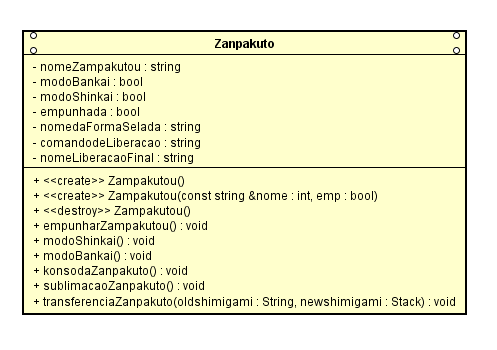
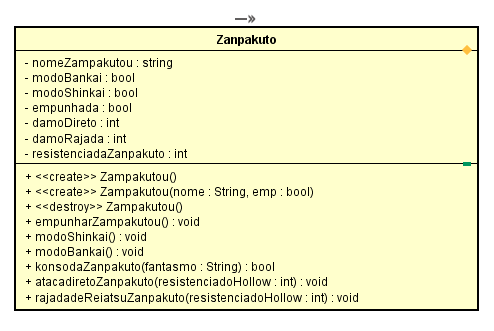
Remoção dos atributos: nomedaFormaFinal, comandodeLiberacao e nomeLiberacaoFinal; dos métodos: sublimacaoZanpakuto e transferenciaZanpakuto. Adição dos atributo: damoDireto,damoRajada e resistenciadaZanpakuto; dos métodos:atacaDiretoZanpakuto (Implementado) e rajadadeReiatusZanpakuto (Implementado).

Changed region(s): [[0.0304, 0.0302, 0.9717, 0.9366]]

diff --git a/Zanpakuto.cpp b/Zanpakuto.cpp
@@ -1,8 +1,14 @@
 #include<iostream>
+#include<string>
+
+#include<stdlib.h>
+#include<time.h>
+
 #include "Zanpakuto.hpp"
 
 using std::cout;
-using std::cin;
+
+using std::string;
 
 Zanpakuto::Zanpakuto()
 {
@@ -12,10 +18,13 @@ Zanpakuto::Zanpakuto()
 }
 Zanpakuto::Zanpakuto(const string &nome, bool empu)
 {
-    this->nomedaZampakutou = nome;
+    this->nomedaZanpakuto = nome;
     this->empunhada = empu;
-    
-    if (this->nomedaZampakutou == "zangetsu")
+    this->damoDireto = 10;
+    this->damoRajada = 15;
+    this->resistenciadaZanpakuto =8;
+   
+    if (this->nomedaZanpakuto == "zangetsu")
     {
             this->modoShinkai = true;
             this->modoBankai = false;
@@ -30,15 +39,10 @@ Zanpakuto::Zanpakuto(const string &nome, bool empu)
 Zanpakuto::~Zanpakuto()
 {
 }
-void Zanpakuto::empunharZampakutou()
+void Zanpakuto::empunharZanpakuto()
 {
-    if(this->empunhada == true)
-        cout<<"A sua Zanpakuto ja esta empunhada!";
-    else
-    {
-        this->empunhada = true;
-        cout<<"A sua Zanpakuto esta empunhada prepara-se para lutar!";
-    }
+    this->empunhada = true;
+    cout<<"A sua Zanpakuto esta empunhada prepara-se para lutar!"; 
 }
 void Zanpakuto::transformarShinkai()
 {
@@ -47,7 +51,7 @@ void Zanpakuto::transformarShinkai()
         if (this->empunhada == true && this->modoShinkai == false && this->modoBankai == false)
         {
             this->modoShinkai = true;
-            cout<<"O modo Shinkai da "<<this->nomedaZampakutou<<" esta ativa!";
+            cout<<"O modo Shinkai da "<<this->nomedaZanpakuto<<" esta ativa!";
         }
         else
             cout<<"O modo Shikai ou Bankai ja esta ativo.";
@@ -62,11 +66,55 @@ void Zanpakuto::transformarBankai()
         if (this->modoShinkai == false && this->modoBankai == false)
         {
             this->modoBankai = true;
-            cout<<"O modo Bankai da "<<this->nomedaZampakutou<<" esta ativa!";
+            cout<<"O modo Bankai da "<<this->nomedaZanpakuto<<" esta ativa!";
         }
         else        
             cout<<"O modo Shikai ou Bankai ja esta ativo.";
     }
     else
         cout<<"Antes de invocar sua Bankai, empunhe-a!";
+}
+bool Zanpakuto::konsodaZanpakuto(const string &fantasma)
+{
+    if(fantasma.compare("F") == 0)
+    {    
+        srand(time(NULL));
+        switch(rand()%3)
+        {
+            case 1:  // 1 para pecados perdoáveis em vida.
+            {
+                cout<<"\nO funeral de alma mandou o fantasma para Soul Society...\n";
+            }break;
+            case 2:  //2  para pecados não perdoáveis em vida.
+            {
+                cout<<"\nO funeral de alma mandou o fantasma para inferno...\n";    
+            }break;
+        }
+        return true;
+    }
+    else
+    {
+        cout<<"\nTrata-se de um Hollow. Nesse caso, a morte por Sublimacao é indicada...\n";
+        return false;
+    }
+}
+void Zanpakuto::atacaDiretoZanpakuto(int *resistenciadoHollow)
+{
+    if (this->damoDireto == *resistenciadoHollow)
+       this->resistenciadaZanpakuto -=2;
+    else
+        if (this->damoDireto < *resistenciadoHollow)
+            this->resistenciadaZanpakuto -=3;
+        else
+            *resistenciadoHollow -=(this->damoDireto/2);
+}
+void Zanpakuto::rajadadeReiatsuZanpakuto(int *resistenciadoHollow)
+{
+        if(this->damoRajada == *resistenciadoHollow)
+            this->resistenciadaZanpakuto -=1;
+        else
+            if (this->damoRajada < *resistenciadoHollow)
+                this->resistenciadaZanpakuto-2;
+            else
+                *resistenciadoHollow -=(this->damoRajada);
 }

diff --git a/Zanpakuto.hpp b/Zanpakuto.hpp
@@ -3,6 +3,7 @@ using std::string;
 
 class Zanpakuto
 {
+    
     public:
         Zanpakuto();
         Zanpakuto(const string &, bool);
@@ -12,17 +13,17 @@ class Zanpakuto
         void transformarShinkai();
         void transformarBankai();
         
-        void konsodaZanpakuto();
-        void sublimacaoZanpakuto(); 
-        void transferenciaZanpakuto(const string &, const string &);
+        bool konsodaZanpakuto(const string &);
+        void atacaDiretoZanpakuto(int *);
+        void rajadadeReiatsuZanpakuto(int *);
         
     private:
         string nomedaZanpakuto;
-        string nomedaFormaSelada;
-        string comandodeLiberacao;
-        string nomeLiberacaoFinal;
         bool modoBankai;
         bool modoShinkai;
         bool empunhada;
+        int damoDireto;
+        int damoRajada;
+        int resistenciadaZanpakuto;
 };
 

diff --git a/main.cpp b/main.cpp
@@ -9,7 +9,12 @@ int main(){
     
     Zanpakuto espada; // Zampakutou(const string &nome, bool empu)
     
-    espada.transformarShinkai();
-    espada.empunharZampakutou();
+    espada.empunharZanpakuto();
+    
+    
+    
+    
+    
+    
     
     return 0;}
